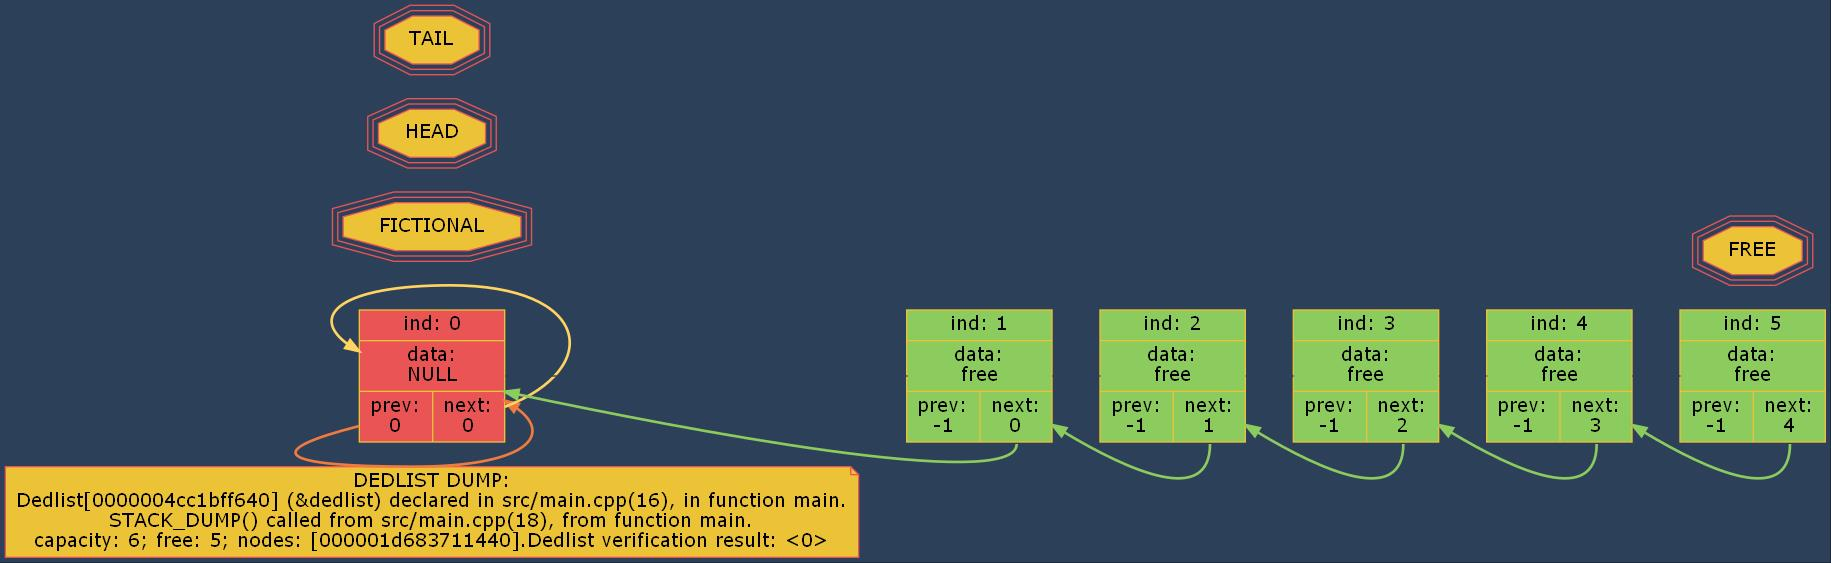
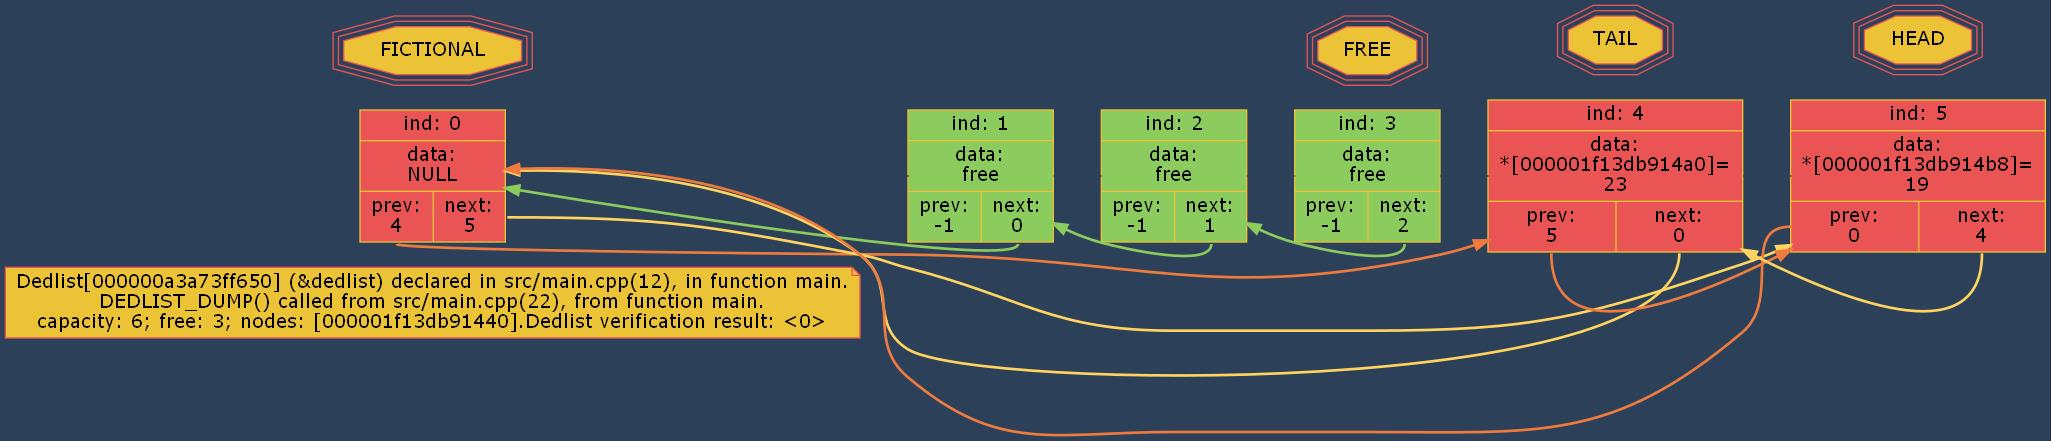
коммит перед страшным изменением
страшное изменение это попытка переноса всего, связанного с дампом, в отдельный файл

diff --git a/src/dedlist.cpp b/src/dedlist.cpp
@@ -3,32 +3,90 @@
 
 #include "dedlist.h"
 
-void print_dedlist_status_code_message( DedlistStatusCode code, FILE *stream)
+inline int is_anchor_valid_for_insert( Dedlist *dedlist_ptr, size_t anchor )
+{
+    if ( anchor < dedlist_ptr->capacity )
+    {
+        if ( dedlist_ptr->nodes[anchor].prev != -1 )
+            return 1;
+        else
+            return 0;
+    }
+
+    return 0;
+}
+
+DedlistStatusCode dedlist_insert(   Dedlist *dedlist_ptr,
+                                    size_t anchor,
+                                    Elem_t value,
+                                    size_t* inserted_elem_anchor_ptr)
+{
+    DEDLIST_SELFCHECK(dedlist_ptr);
+    assert(inserted_elem_anchor_ptr);
+
+    if ( !is_anchor_valid_for_insert( dedlist_ptr, anchor ) )
+        return DEDLIST_STATUS_ERROR_INVALID_ANCHOR_FOR_INSERT;
+
+    ptrdiff_t new_elem_ind = dedlist_ptr->free;
+
+    dedlist_ptr->free = dedlist_ptr->nodes[new_elem_ind].next;
+
+    dedlist_ptr->nodes[new_elem_ind].data = value;
+
+
+    ptrdiff_t tmp = dedlist_ptr->nodes[anchor].next;
+    dedlist_ptr->nodes[anchor].next = new_elem_ind;
+    dedlist_ptr->nodes[new_elem_ind].next = tmp;
+    dedlist_ptr->nodes[tmp].prev = new_elem_ind;
+
+    dedlist_ptr->nodes[new_elem_ind].prev = anchor;
+
+    *inserted_elem_anchor_ptr = (size_t) new_elem_ind;
+
+    return DEDLIST_STATUS_OK;
+}
+
+DedlistStatusCode dedlist_push_head(    Dedlist *dedlist_ptr,
+                                        Elem_t value,
+                                        size_t* inserted_elem_anchor_ptr )
+{
+    return dedlist_insert( dedlist_ptr, dedlist_get_head_ind(dedlist_ptr), value, inserted_elem_anchor_ptr );
+}
+
+DedlistStatusCode dedlist_push_tail(    Dedlist *dedlist_ptr,
+                                        Elem_t value,
+                                        size_t* inserted_elem_anchor_ptr )
+{
+    return dedlist_insert( dedlist_ptr, dedlist_get_tail_ind(dedlist_ptr), value, inserted_elem_anchor_ptr );
+}
+
+
+void dedlist_print_status_code_message( DedlistStatusCode code, FILE *stream)
 {
     fprintf(stream, "%s", dedlist_status_code_messages[code]);
 }
 
-void inline init_zeroth_elem_( VoidDedlist *dedlist_ptr )
+void inline init_zeroth_elem_( Dedlist *dedlist_ptr )
 {
     assert(dedlist_ptr);
 
-    dedlist_ptr->nodes[0].data_ptr = NULL;
+    dedlist_ptr->nodes[0].data = ELEM_T_DEFAULT_VALUE;
     dedlist_ptr->nodes[0].next = 0;
     dedlist_ptr->nodes[0].prev = 0;
 }
 
-void inline init_free_elem( VoidDedlist *dedlist_ptr, ptrdiff_t free_elem_ind )
+void inline init_free_elem( Dedlist *dedlist_ptr, ptrdiff_t free_elem_ind )
 {
     assert(dedlist_ptr);
 
-    dedlist_ptr->nodes[free_elem_ind].data_ptr = NULL;
+    dedlist_ptr->nodes[free_elem_ind].data = ELEM_T_DEFAULT_VALUE;
     dedlist_ptr->nodes[free_elem_ind].prev = -1;
     dedlist_ptr->nodes[free_elem_ind].next = dedlist_ptr->free;
 
     dedlist_ptr->free = free_elem_ind;
 }
 
-void inline init_new_free_elems_( VoidDedlist *dedlist_ptr, ptrdiff_t start_with )
+void inline init_new_free_elems_( Dedlist *dedlist_ptr, ptrdiff_t start_with )
 {
     assert( dedlist_ptr );
 
@@ -38,7 +96,7 @@ void inline init_new_free_elems_( VoidDedlist *dedlist_ptr, ptrdiff_t start_with
     }
 }
 
-DedlistStatusCode dedlist_ctor_( VoidDedlist *dedlist_ptr, size_t default_size
+DedlistStatusCode dedlist_ctor_( Dedlist *dedlist_ptr, size_t default_size
 #ifdef DEDLIST_DO_DUMP
                                 , DedlistOrigInfo orig_info
 #endif
@@ -66,7 +124,7 @@ DedlistStatusCode dedlist_ctor_( VoidDedlist *dedlist_ptr, size_t default_size
     return DEDLIST_STATUS_OK;
 }
 
-DedlistStatusCode dedlist_dtor( VoidDedlist *dedlist_ptr )
+DedlistStatusCode dedlist_dtor( Dedlist *dedlist_ptr )
 {
     if (dedlist_ptr->nodes)
         free(dedlist_ptr->nodes);
@@ -85,7 +143,7 @@ DedlistStatusCode dedlist_dtor( VoidDedlist *dedlist_ptr )
 
 #ifdef DEDLIST_DO_DUMP
 
-inline int verify_check_occupied_elems( VoidDedlist *dedlist_ptr )
+inline int verify_check_occupied_elems( Dedlist *dedlist_ptr )
 {
     ptrdiff_t curr_ind = dedlist_get_head_ind( dedlist_ptr );
     size_t iterations = 0;
@@ -112,7 +170,7 @@ inline int verify_check_occupied_elems( VoidDedlist *dedlist_ptr )
     return 1;
 }
 
-inline int verify_check_free_elems( VoidDedlist *dedlist_ptr )
+inline int verify_check_free_elems( Dedlist *dedlist_ptr )
 {
     ptrdiff_t curr_ind = dedlist_ptr->free;
     size_t iterations = 0;
@@ -133,7 +191,7 @@ inline int verify_check_free_elems( VoidDedlist *dedlist_ptr )
 }
 
 #define DEF_VERIFY_FLAG(bit, name, message, cond) if ((cond)) {verify_res |= (1 << (bit));}
-dl_verify_res_t dedlist_verify( VoidDedlist *dedlist_ptr )
+dl_verify_res_t dedlist_verify( Dedlist *dedlist_ptr )
 {
     dl_verify_res_t verify_res = 0;
 
@@ -155,7 +213,7 @@ inline DedlistStatusCode create_tmp_dot_file_( const char *dot_file_name, FILE *
 
 // TODO - в другой файл? что делать с такой большой функцией?
 inline DedlistStatusCode write_dot_file_for_dump_(  FILE *dot_file,
-                                                    VoidDedlist *dedlist_ptr,
+                                                    Dedlist *dedlist_ptr,
                                                     dl_verify_res_t verify_res,
                                                     const char *called_from_file,
                                                     const int called_from_line,
@@ -174,10 +232,14 @@ inline DedlistStatusCode write_dot_file_for_dump_(  FILE *dot_file,
 #define COLOR_EDGE_NEXT "#FFD460"
 #define COLOR_EDGE_FREE "#8ccb5e"
 
+    // splines = ortho делает стрелочки с прямыми углами, но это очень плохо работает
+    // с выстроенными в ряд узлами
+
     //---------------------------------------------------------------------
     fprintf(dot_file,   "digraph{\n"
                         "rankdir=LR;\n"
-                        "bgcolor=\"" COLOR_BG "\";\n\n\n");
+                        "bgcolor=\"" COLOR_BG "\";\n"
+                        "\n\n\n");
     //---------------------------------------------------------------------
 
     //---------------------------------NODE_TEXT--------------------------
@@ -186,9 +248,8 @@ inline DedlistStatusCode write_dot_file_for_dump_(  FILE *dot_file,
                         "color=\"" COLOR_LABEL_COLOR "\", fillcolor=\"" COLOR_LABEL_FILL "\",\n"
                         "label = \"");
     // TODO - добавить время дампа?
-    fprintf(dot_file,   "DEDLIST DUMP:\\n"
-                        "Dedlist[%p] (%s) declared in %s(%d), in function %s.\\n"
-                        "STACK_DUMP() called from %s(%d), from function %s.\\n"
+    fprintf(dot_file,   "Dedlist[%p] (%s) declared in %s(%d), in function %s.\\n"
+                        "DEDLIST_DUMP() called from %s(%d), from function %s.\\n"
                         "capacity: %lld; free: %lld; nodes: [%p].",
                         dedlist_ptr,
                         dedlist_ptr->orig_info.dedlist_name,
@@ -340,6 +401,8 @@ inline DedlistStatusCode generate_dump_img_( )
                                     DUMP_DOT_FILE_PATH,
                                     DUMP_IMG_FILE_PATH);
 
+    //int written_chars = snprintf(cmd, MAX_CMD_GEN_DUMP_IMG_LENGHT, "dot .\\dumps\\dedlist_dump.dot -Tjpg -o .\\dumps\\dedlist_dump.jpg");
+
     printf("<%s>\n", cmd);
 
     if ( written_chars >= (int) MAX_CMD_GEN_DUMP_IMG_LENGHT)
@@ -349,10 +412,8 @@ inline DedlistStatusCode generate_dump_img_( )
         return DEDLIST_STATUS_ERROR_TOO_LONG_CMD_GEN_DUMP_IMG;
     }
 
-    // TODO - разобраться почему не работает!
-    //system(cmd);
+    system(cmd);
 
-    system( "dot .\\dumps\\dedlist_dump.dot -Tjpg -o .\\dumps\\dedlist_dump.jpg" );
     fprintf(stderr, "Dedlist dump image is generated!\n");
 
     return DEDLIST_STATUS_OK;
@@ -373,7 +434,7 @@ inline DedlistStatusCode free_dot_file_( FILE * dot_tmp_file )
     return DEDLIST_STATUS_OK;
 }
 
-void dedlist_dump_( VoidDedlist *dedlist_ptr,
+void dedlist_dump_( Dedlist *dedlist_ptr,
                     dl_verify_res_t verify_res,
                     const char *file,
                     const int line,
@@ -387,9 +448,9 @@ void dedlist_dump_( VoidDedlist *dedlist_ptr,
 
     write_dot_file_for_dump_(dot_file, dedlist_ptr, verify_res, file, line, func );
 
-    generate_dump_img_( );
-
     free_dot_file_(dot_file);
+
+    generate_dump_img_( );
 
     show_dump_img_( );
 }
@@ -408,16 +469,16 @@ void dedlist_print_verify_res_(FILE *stream, int verify_res)
 
 #endif //DEDLIST_DO_DUMP
 
-ptrdiff_t dedlist_get_head_ind( VoidDedlist *dedlist_ptr )
+size_t dedlist_get_head_ind( Dedlist *dedlist_ptr )
 {
     assert(dedlist_ptr);
 
-    return dedlist_ptr->nodes[0].next;
+    return (size_t) dedlist_ptr->nodes[0].next;
 }
 
-ptrdiff_t dedlist_get_tail_ind( VoidDedlist *dedlist_ptr )
+size_t dedlist_get_tail_ind( Dedlist *dedlist_ptr )
 {
     assert(dedlist_ptr);
 
-    return dedlist_ptr->nodes[0].prev;
+    return (size_t) dedlist_ptr->nodes[0].prev;
 }

diff --git a/src/dedlist.h b/src/dedlist.h
@@ -12,6 +12,15 @@
 */
 #define DEDLIST_DO_DUMP
 
+typedef int Elem_t;
+const Elem_t ELEM_T_DEFAULT_VALUE = 0;
+inline void dedlist_print_elem_t(FILE *stream, Elem_t value)
+{
+    fprintf(stream, "%d", value);
+}
+
+//------------------------------------------------------------------------------------------------------
+
 typedef uint32_t dl_verify_res_t;
 
 //------------------------------------------------------------------------------------------------------
@@ -34,7 +43,7 @@ enum DedlistVerifyResFlag
 
 struct DedlistNode
 {
-    void *data_ptr = NULL;
+    Elem_t data = ELEM_T_DEFAULT_VALUE;
     ptrdiff_t next = 0;
     ptrdiff_t prev = -1;
 };
@@ -49,7 +58,7 @@ struct DedlistOrigInfo
 };
 #endif // DEDLIST_DO_DUMP
 
-struct VoidDedlist
+struct Dedlist
 {
     DedlistNode *nodes = NULL;
     size_t capacity = 0;
@@ -86,6 +95,8 @@ __attribute__ ((unused)) static const char *dedlist_verification_messages[] =
 //! @note includes path to the file
 __attribute__ ((unused)) static const char *DUMP_DOT_FILE_PATH = ".\\dumps\\dedlist_dump.dot";
 
+// TODO - погуглить про const в h, еще возможно выносить константы в отдельный cpp + extern
+
 //! @note includes path to the file
 __attribute__ ((unused)) static const char *DUMP_IMG_FILE_PATH = ".\\dumps\\dedlist_dump.jpg";
 
@@ -94,7 +105,7 @@ __attribute__ ((unused)) static const size_t MAX_CMD_GEN_DUMP_IMG_LENGHT = 256;
 
 //------------------------------------------------------------------------------------------------------
 
-DedlistStatusCode dedlist_ctor_( VoidDedlist *dedlist_ptr, size_t default_size
+DedlistStatusCode dedlist_ctor_( Dedlist *dedlist_ptr, size_t default_size
 #ifdef DEDLIST_DO_DUMP
                                 , DedlistOrigInfo orig_info
 #endif
@@ -118,12 +129,12 @@ DedlistStatusCode dedlist_ctor_( VoidDedlist *dedlist_ptr, size_t default_size
 
 #endif // DEDLIST_DO_DUMP
 
-DedlistStatusCode dedlist_dtor( VoidDedlist *dedlist_ptr );
+DedlistStatusCode dedlist_dtor( Dedlist *dedlist_ptr );
 
 #ifdef DEDLIST_DO_DUMP
-dl_verify_res_t dedlist_verify( VoidDedlist *dedlist_ptr );
+dl_verify_res_t dedlist_verify( Dedlist *dedlist_ptr );
 
-void dedlist_dump_( VoidDedlist *dedlist_ptr,
+void dedlist_dump_( Dedlist *dedlist_ptr,
                     dl_verify_res_t verify_res,
                     const char *file,
                     const int line,
@@ -150,12 +161,27 @@ void dedlist_dump_( VoidDedlist *dedlist_ptr,
 
 #endif // DEDLIST_DO_DUMP
 
-void print_dedlist_status_code_message( DedlistStatusCode code, FILE *stream);
+//! @brief Inserts value after element located at anchor.
+//! Puts inserted element's anchor by the given pointer.
+DedlistStatusCode dedlist_insert(   Dedlist *dedlist_ptr,
+                                    size_t anchor,
+                                    Elem_t value,
+                                    size_t* inserted_elem_anchor_ptr);
+
+DedlistStatusCode dedlist_push_head(    Dedlist *dedlist_ptr,
+                                        Elem_t value,
+                                        size_t* inserted_elem_anchor_ptr );
+
+DedlistStatusCode dedlist_push_tail(    Dedlist *dedlist_ptr,
+                                        Elem_t value,
+                                        size_t* inserted_elem_anchor_ptr );
+
+void dedlist_print_status_code_message( DedlistStatusCode code, FILE *stream);
 
 void dedlist_print_verify_res_(FILE *stream, int verify_res);
 
-ptrdiff_t dedlist_get_head_ind( VoidDedlist *dedlist_ptr );
+size_t dedlist_get_head_ind( Dedlist *dedlist_ptr );
 
-ptrdiff_t dedlist_get_tail_ind( VoidDedlist *dedlist_ptr );
+size_t dedlist_get_tail_ind( Dedlist *dedlist_ptr );
 
 #endif

diff --git a/src/main.cpp b/src/main.cpp
@@ -7,15 +7,17 @@
 
 int main()
 {
-
-    //printf("<\\n>\n");
-
-
-    VoidDedlist dedlist = {};
+    Dedlist dedlist = {};
 
     dedlist_ctor(&dedlist, 5);
 
+    size_t x_anchor_1 = -1;
+    dedlist_push_head(&dedlist, 19, &x_anchor_1);
+    printf("x_anchor : <%lld>\n", x_anchor_1);
 
+    size_t x_anchor_2 = -1;
+    dedlist_push_head(&dedlist, 23, &x_anchor_2);
+    printf("x_anchor : <%lld>\n", x_anchor_2);
 
     DEDLIST_DUMP(&dedlist, 0);
 

diff --git a/src/dedlist_status_codes.h b/src/dedlist_status_codes.h
@@ -7,3 +7,5 @@ DEF_STATUS_CODE(2,  ERROR_VERIFY,                                   "ERROR_VERIF
 DEF_STATUS_CODE(3,  ERROR_CANT_OPEN_DUMP_FILE,                      "ERROR_CANT_OPEN_DUMP_FILE")
 
 DEF_STATUS_CODE(4,  ERROR_TOO_LONG_CMD_GEN_DUMP_IMG,                "ERROR_TOO_LONG_CMD_GEN_DUMP_IMG")
+
+DEF_STATUS_CODE(5,  ERROR_INVALID_ANCHOR_FOR_INSERT,                "ERROR_INVALID_ANCHOR_FOR_INSERT")
